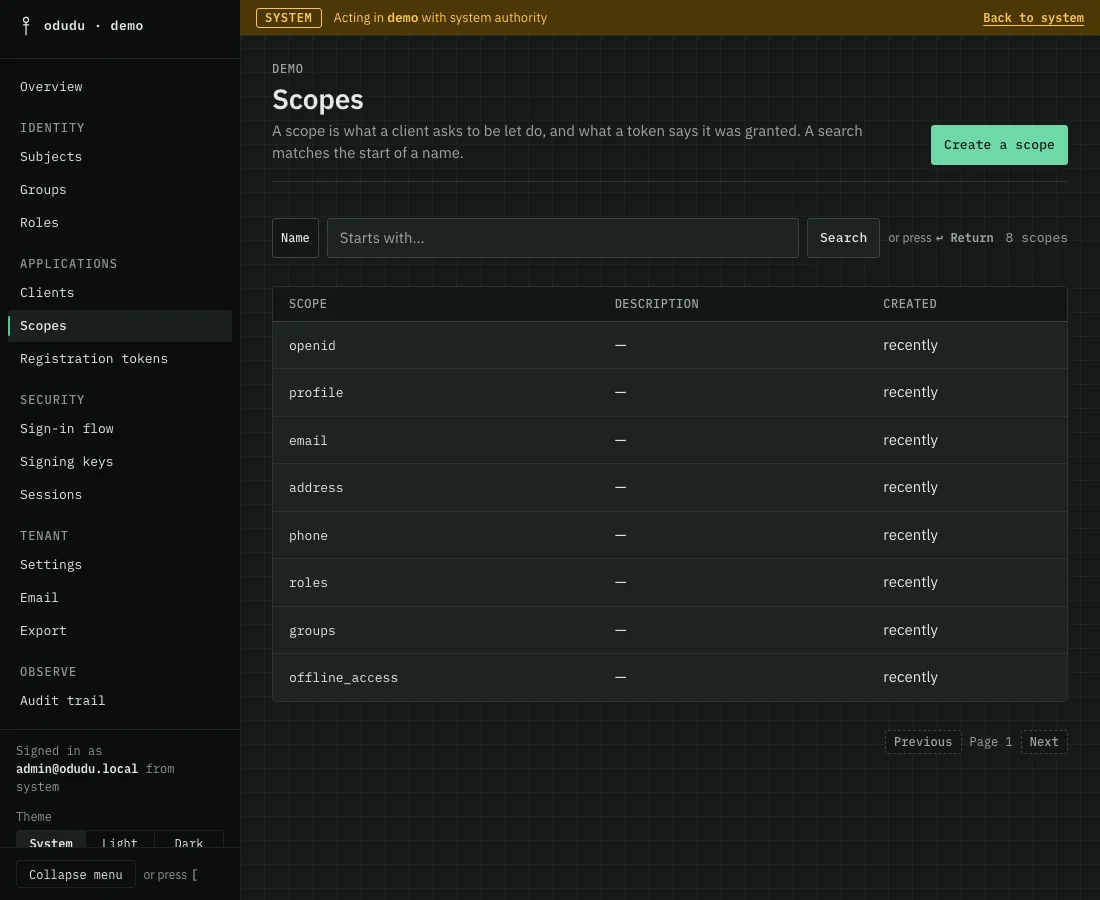
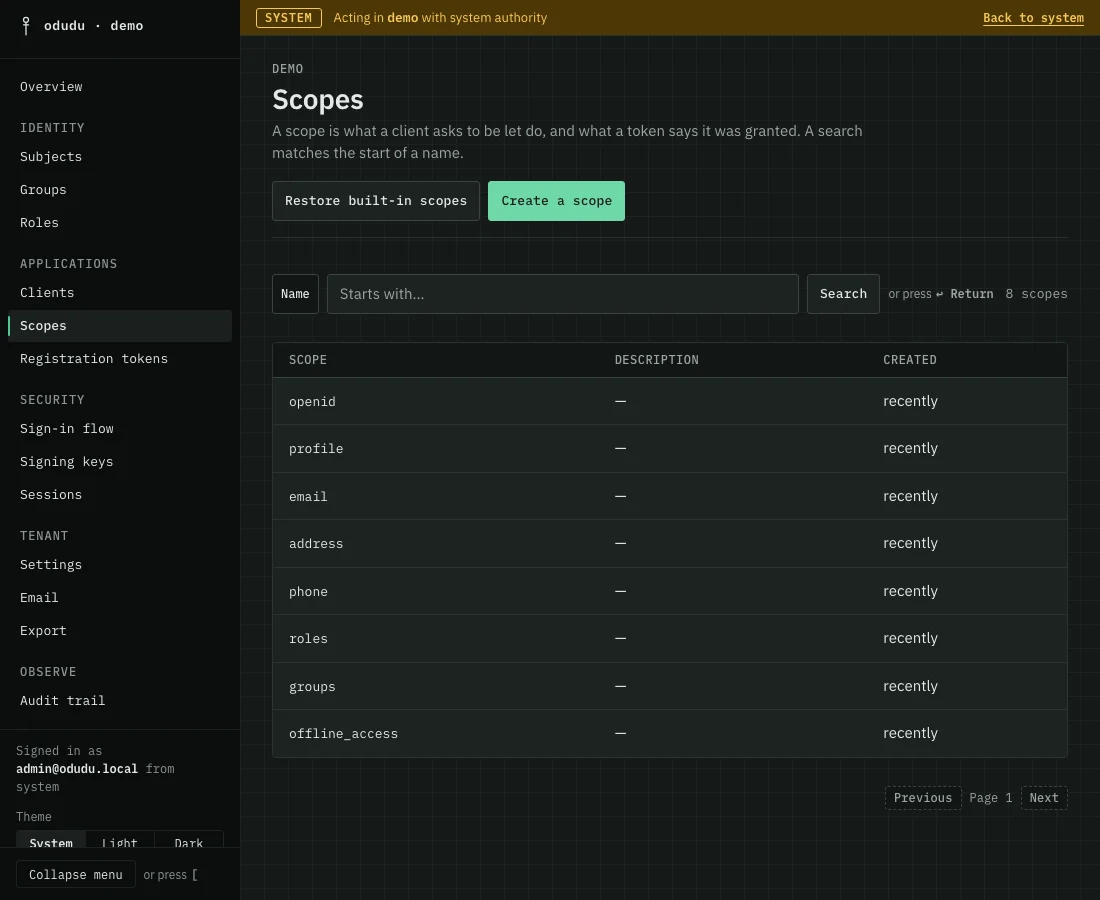
Document built-in scope delete, restore and default mappers
Scopes concept and console pages, the admin-paths transcript for impact,
builtins and restore re-run on a live stack, the openapi counts, the
scopes screenshot and its labels.

diff --git a/apps/docs/tests/support/console-labels.ts b/apps/docs/tests/support/console-labels.ts
@@ -210,6 +210,15 @@ export const DEFINED: Readonly<Record<string, Defined>> = {
   'Create a group': feature('groups/view/GroupsPage/GroupsPage.tsx', '> Create a group <'),
   'Create a role': feature('roles/view/RolesPage/RolesPage.tsx', '> Create a role <'),
   'Create a scope': feature('scopes/view/ScopesPage/ScopesPage.tsx', '> Create a scope <'),
+  'Restore built-in scopes': feature(
+    'scopes/view/ScopesPage/RestoreScopes.tsx',
+    '>Restore built-in scopes<',
+  ),
+  Restore: feature('scopes/view/ScopesPage/RestoreScopes.tsx', 'confirmLabel="Restore"'),
+  'Used because nothing is bound': feature(
+    'scopes/service/mappers.ts',
+    "DEFAULT_MAPPER_NOTE = 'Used because nothing is bound'",
+  ),
   'Create a copy': feature('roles/view/RoleRecordPage/RoleRecordPage.tsx', '> Create a copy <'),
   'Import a tenant': several(
     feature('tenants/view/TenantsPage/TenantsPage.tsx', '>Import a tenant<'),

diff --git a/packages/protocol-admin/tests/builtin-scopes.int.test.ts b/packages/protocol-admin/tests/builtin-scopes.int.test.ts
@@ -373,7 +373,15 @@ describe('POST /admin/tenants/{t}/scopes/restore-builtins', () => {
     const shipped = async (tenantId: string) =>
       withTenant(fixture.app.db, tenantId, async (tx) =>
         (await clientScopeRepository(tx).allForTenant())
-          .map(({ id: _id, tenantId: _tenant, createdAt: _created, ...rest }) => rest)
+          .map((scope) => ({
+            name: scope.name,
+            description: scope.description,
+            includeInIdToken: scope.includeInIdToken,
+            includeInAccessToken: scope.includeInAccessToken,
+            defaultClientAssignment: scope.defaultClientAssignment,
+            consentText: scope.consentText,
+            displayOrder: scope.displayOrder,
+          }))
           .sort((a, b) => a.name.localeCompare(b.name)),
       );
     expect(await shipped(t.id)).toEqual(await shipped(pristine.id));

diff --git a/packages/domain-tenant/tests/provision-defaults.int.test.ts b/packages/domain-tenant/tests/provision-defaults.int.test.ts
@@ -123,7 +123,15 @@ describe('restoring the built-in scopes', () => {
     return withTenant(app.db, tenantId, async (tx) => {
       const rows = await clientScopeRepository(tx).allForTenant();
       return rows
-        .map(({ id: _id, tenantId: _tenant, createdAt: _created, ...settings }) => settings)
+        .map((scope) => ({
+          name: scope.name,
+          description: scope.description,
+          includeInIdToken: scope.includeInIdToken,
+          includeInAccessToken: scope.includeInAccessToken,
+          defaultClientAssignment: scope.defaultClientAssignment,
+          consentText: scope.consentText,
+          displayOrder: scope.displayOrder,
+        }))
         .sort((a, b) => a.name.localeCompare(b.name));
     });
   }

diff --git a/apps/docs/scripts/console-shots/screens.ts b/apps/docs/scripts/console-shots/screens.ts
@@ -263,7 +263,7 @@ export const SCREENS: readonly Screen[] = [
   },
   {
     name: 'scopes',
-    alt: "The demo tenant's Scopes list: openid, profile, email, address, phone, roles, groups and offline_access, and a Create a scope button.",
+    alt: "The demo tenant's Scopes list: openid, profile, email, address, phone, roles, groups and offline_access, with Restore built-in scopes and Create a scope buttons.",
     caption: 'The eight scopes every tenant starts with.',
     signedIn: true,
     expect: [

diff --git a/apps/docs/content/en/reference/transcripts/admin-paths/get-scopesidimpact-get-scopesbuiltins-and-post-scopesrestore-builtins.md b/apps/docs/content/en/reference/transcripts/admin-paths/get-scopesidimpact-get-scopesbuiltins-and-post-scopesrestore-builtins.md
@@ -1,0 +1,181 @@
+---
+title: 'GET /scopes/:id/impact, GET /scopes/builtins and POST…'
+description: 'All three require manage-tenant. They support deleting a built-in scope: what it takes, which built-ins are missing, and how to restore them…'
+---
+
+## `GET /scopes/:id/impact`, `GET /scopes/builtins` and `POST /scopes/restore-builtins`
+
+All three require `manage-tenant`. They are what deleting a built-in scope needs
+around it: what the delete would take, which built-ins a tenant is missing, and
+the way to create a missing one again. A **built-in** scope is one every tenant
+is given when it is created: `openid`, `profile`, `email`, `address`, `phone`,
+`roles`, `groups` and `offline_access`. `DELETE /scopes/:id` deletes any of them
+but `openid`, and only when its `confirm` query parameter names the scope again,
+as `DELETE /admin/tenants/{tenant}` does for a tenant, so a script cannot take
+one by accident. An ordinary scope needs no `confirm`, and one sent with it is
+ignored.
+
+Every block below ran on a stack built from this branch and driven only as far
+as this page needs: `odudu seed admin`, `$ADMIN_TOKEN` got as in [Getting the
+token](./getting-the-token.md), then the tenant `demo`, a public client
+`portal`, and the role `auditor` mapped to the `roles` scope with `odudu seed`.
+The stack published port `3192`.
+
+### What a delete would take
+
+`GET /scopes/:id/impact` says whether the scope is built in and how many clients
+carry it and roles map it, the two things its deletion takes with it. Each count
+stops at a ceiling and says `capped`, so the answer is two bounded index reads
+however large the tenant is. `roles` is carried by `portal` and by the tenant's
+own admin client, and `auditor` is mapped to it:
+
+```bash
+curl -sS -H "Authorization: Bearer $ADMIN_TOKEN" http://localhost:3192/admin/tenants/demo/scopes/01a163f6-3841-7c44-8665-e0d89bc86380/impact; echo
+```
+
+```
+{"builtin":true,"client_assignments":{"count":2,"capped":false},"role_mappings":{"count":1,"capped":false}}
+```
+
+### Deleting a built-in scope asks for its name
+
+Without `confirm` the delete is refused with `422` and the type
+`builtin-scope-confirmation`; `detail` names the scope, what would go with it and
+what to send. Nothing is deleted, and the refusal is audited. A `confirm` that is
+not the scope's own name is refused the same way:
+
+```bash
+curl -sS -D - -X DELETE -H "Authorization: Bearer $ADMIN_TOKEN" http://localhost:3192/admin/tenants/demo/scopes/01a163f6-3841-7c44-8665-e0d89bc86380
+```
+
+```
+HTTP/1.1 422 Unprocessable Entity
+x-request-id: 01a163f6-3df4-75db-b8a5-674c38bdece3
+cache-control: no-store
+content-type: application/problem+json; charset=utf-8
+content-length: 313
+Date: Thu, 22 Oct 2026 14:14:04 GMT
+Connection: keep-alive
+Keep-Alive: timeout=72
+
+{"type":"about:blank#builtin-scope-confirmation","title":"Unprocessable Content","status":422,"detail":"roles is a built-in scope. Deleting it removes it from 2 clients and unmaps 1 role, and cannot be undone. Repeat the request with confirm=roles to delete it.","instance":"01a163f6-3df4-75db-b8a5-674c38bdece3"}
+```
+
+```bash
+curl -sS -X DELETE -H "Authorization: Bearer $ADMIN_TOKEN" "http://localhost:3192/admin/tenants/demo/scopes/01a163f6-3841-7c44-8665-e0d89bc86380?confirm=role"; echo
+```
+
+```
+{"type":"about:blank#builtin-scope-confirmation","title":"Unprocessable Content","status":422,"detail":"roles is a built-in scope. Deleting it removes it from 2 clients and unmaps 1 role, and cannot be undone. Repeat the request with confirm=roles to delete it.","instance":"01a163f6-3e15-7488-8e9a-5ba79eb450ab"}
+```
+
+`openid` stays refused with `409` whatever `confirm` says, since taking it off
+every client would lock every administrator of the tenant out:
+
+```bash
+curl -sS -X DELETE -H "Authorization: Bearer $ADMIN_TOKEN" "http://localhost:3192/admin/tenants/demo/scopes/01a163f6-3833-718e-8f5e-7f326dd666c0?confirm=openid"; echo
+```
+
+```
+{"type":"about:blank","title":"Conflict","status":409,"detail":"openid is deleted along with every client’s assignment of it, this tenant’s built-in admin client’s included, and could lock out every administrator of this tenant","instance":"01a163f6-3e34-7b93-9a52-b13d2b4b8785"}
+```
+
+Naming the scope deletes it, with the assignments and role mappings that
+referred to it:
+
+```bash
+curl -sS -D - -X DELETE -H "Authorization: Bearer $ADMIN_TOKEN" "http://localhost:3192/admin/tenants/demo/scopes/01a163f6-3841-7c44-8665-e0d89bc86380?confirm=roles"
+```
+
+```
+HTTP/1.1 204 No Content
+x-request-id: 01a163f6-3e4e-7736-95c7-de6acff5ad27
+cache-control: no-store
+Date: Thu, 22 Oct 2026 14:14:04 GMT
+Connection: keep-alive
+Keep-Alive: timeout=72
+
+```
+
+### Which are missing, and getting them back
+
+`GET /scopes/builtins` lists every built-in in the order a new tenant is given
+them, with whether this tenant has it; narrowed with `jq` to the missing ones:
+
+```bash
+curl -sS -H "Authorization: Bearer $ADMIN_TOKEN" http://localhost:3192/admin/tenants/demo/scopes/builtins | jq -c ".items[] | select(.present | not)"
+```
+
+```
+{"name":"roles","present":false}
+```
+
+`POST /scopes/restore-builtins` creates each missing built-in with the settings
+a new tenant is given and answers the names it created. A scope that exists is
+neither read nor changed, edited or not, so a second call creates none. It takes
+no body:
+
+```bash
+curl -sS -X POST -H "Authorization: Bearer $ADMIN_TOKEN" http://localhost:3192/admin/tenants/demo/scopes/restore-builtins; echo
+curl -sS -X POST -H "Authorization: Bearer $ADMIN_TOKEN" http://localhost:3192/admin/tenants/demo/scopes/restore-builtins; echo
+```
+
+```
+{"created":["roles"]}
+{"created":[]}
+```
+
+The restored scope has its shipped settings, marked `default` for clients made
+from now on, but not what the deletion took: no client carries it and no role is
+mapped to it, so each is assigned and mapped again. It is refused with `409`,
+creating nothing, when the missing scopes would pass the tenant's limit of 1,000
+scopes or of 200 scopes marked for every new client.
+
+```bash
+curl -sS -H "Authorization: Bearer $ADMIN_TOKEN" http://localhost:3192/admin/tenants/demo/scopes/01a163f6-3e95-77a2-8c20-0621710b44f2; echo
+curl -sS -H "Authorization: Bearer $ADMIN_TOKEN" http://localhost:3192/admin/tenants/demo/scopes/01a163f6-3e95-77a2-8c20-0621710b44f2/impact; echo
+```
+
+```
+{"id":"01a163f6-3e95-77a2-8c20-0621710b44f2","name":"roles","description":null,"include_in_id_token":false,"include_in_access_token":true,"default_client_assignment":"default","consent_text":null,"display_order":0,"created_at":"2026-10-22T14:14:04.689Z"}
+{"builtin":true,"client_assignments":{"count":0,"capped":false},"role_mappings":{"count":0,"capped":false}}
+```
+
+### The trail
+
+A delete writes one `scope.delete` row, `allowed` or `refused`, whose detail
+carries `builtin` and how many client assignments and role mappings it took or
+would have taken. A restore that creates something writes one
+`scope.restore_builtins` row naming what it created, and one that creates
+nothing writes none. The two refusals and the delete of `roles` above, narrowed
+with `jq` to the counts, and the restore:
+
+```bash
+curl -sS -H "Authorization: Bearer $ADMIN_TOKEN" "http://localhost:3192/admin/tenants/demo/audit?resource_type=scope&action=scope.delete&resource_id=01a163f6-3841-7c44-8665-e0d89bc86380" | jq -c ".items[] | {outcome, builtin: .detail.builtin, clients: .detail.client_assignments, roles: .detail.role_mappings}"
+curl -sS -H "Authorization: Bearer $ADMIN_TOKEN" "http://localhost:3192/admin/tenants/demo/audit?action=scope.restore_builtins" | jq -c ".items[] | {action, outcome, detail}"
+```
+
+```
+{"outcome":"allowed","builtin":true,"clients":2,"roles":1}
+{"outcome":"refused","builtin":true,"clients":2,"roles":1}
+{"outcome":"refused","builtin":true,"clients":2,"roles":1}
+{"action":"scope.restore_builtins","outcome":"allowed","detail":{"created":["roles"]}}
+```
+
+### From the command line
+
+`odudu seed restore-scopes --tenant <name>` does the same through the same
+function, for an installation with no admin token to hand. It prints the names
+it created and is just as harmless to repeat. Here `groups` was deleted first
+with `?confirm=groups`; the command's own warnings on standard error are
+discarded:
+
+```bash
+docker compose exec -T odudu node dist/main.js seed restore-scopes --tenant demo 2>/dev/null
+docker compose exec -T odudu node dist/main.js seed restore-scopes --tenant demo 2>/dev/null
+```
+
+```
+{"command":"restore-scopes","tenant":"demo","tenantId":"01a163f6-381e-7464-8b39-7093a24cdfc9","created":["groups"]}
+{"command":"restore-scopes","tenant":"demo","tenantId":"01a163f6-381e-7464-8b39-7093a24cdfc9","created":[]}
+```

diff --git a/apps/docs/content/en/reference/transcripts/admin-paths/the-shape-of-it.md b/apps/docs/content/en/reference/transcripts/admin-paths/the-shape-of-it.md
@@ -185,9 +185,12 @@ and why, where it appears.
 | `GET`    | `/admin/tenants/{tenant}/scopes`                                 | List client scopes                         |
 | `GET`    | `/admin/tenants/{tenant}/scopes/count`                           | Count client scopes                        |
 | `POST`   | `/admin/tenants/{tenant}/scopes`                                 | Create a client scope                      |
+| `GET`    | `/admin/tenants/{tenant}/scopes/builtins`                        | List the built-in scopes a tenant has      |
+| `POST`   | `/admin/tenants/{tenant}/scopes/restore-builtins`                | Create the missing built-in scopes         |
 | `GET`    | `/admin/tenants/{tenant}/scopes/:id`                             | Read a client scope                        |
 | `PATCH`  | `/admin/tenants/{tenant}/scopes/:id`                             | Amend a client scope                       |
 | `DELETE` | `/admin/tenants/{tenant}/scopes/:id`                             | Delete a client scope                      |
+| `GET`    | `/admin/tenants/{tenant}/scopes/:id/impact`                      | Count what deleting a scope would take     |
 | `GET`    | `/admin/tenants/{tenant}/scopes/:id/roles`                       | Read a scope's roles                       |
 | `PUT`    | `/admin/tenants/{tenant}/scopes/:id/roles`                       | Replace a scope's roles                    |
 | `GET`    | `/admin/tenants/{tenant}/scopes/:id/clients`                     | List the clients a scope is assigned to    |

diff --git a/apps/docs/content/en/reference/transcripts/admin-paths/get-adminopenapijson.md b/apps/docs/content/en/reference/transcripts/admin-paths/get-adminopenapijson.md
@@ -12,24 +12,24 @@ into one — and is served without authentication, since a client that cannot re
 it cannot generate against it.
 
 ```bash
-curl -sS -D - -o openapi.json http://localhost:3187/admin/openapi.json
+curl -sS -D - -o openapi.json http://localhost:3192/admin/openapi.json
 jq '.paths | length' openapi.json
 ```
 
 ```
 HTTP/1.1 200 OK
-x-request-id: 01a140be-1aa4-7732-9373-b578e205487c
+x-request-id: 01a163f6-cbed-7c2e-890d-c0cbc69af402
 access-control-allow-origin: *
 content-type: application/json; charset=utf-8
-content-length: 326972
-Date: Thu, 15 Oct 2026 18:06:02 GMT
+content-length: 432083
+Date: Thu, 22 Oct 2026 14:14:40 GMT
 Connection: keep-alive
 Keep-Alive: timeout=72
 
-75
+78
 ```
 
-319 KB and 75 paths, which is the whole route table. It is the one admin
+422 KB and 78 paths, which is the whole route table. It is the one admin
 response readable from any origin, so a viewer served from another port can load
 it — the local stack's optional Swagger UI does exactly that (see "Browsing the
 admin API" in the README). No admin route carries that header, so a page on
@@ -46,7 +46,7 @@ openapi.json` and the substring at `securitySchemes`:
 ```
 
 `security` is declared once at the top level, so every path inherits it
-rather than repeating it. `/admin/openapi.json` is not among those 75
+rather than repeating it. `/admin/openapi.json` is not among those 78
 paths: the document does not describe itself, which is why serving it
 unauthenticated does not contradict the blanket `security` above.
 

diff --git a/apps/docs/content/en/reference/transcripts/admin-paths/get-scopes-post-scopes-get-scopesid-patch-scopesid-and-delete-scopesid.md b/apps/docs/content/en/reference/transcripts/admin-paths/get-scopes-post-scopes-get-scopesid-patch-scopesid-and-delete-scopesid.md
@@ -121,7 +121,13 @@ the built-in admin client's included, which
 alone. Every other scope stays deletable whatever it is assigned to,
 unless the roles it maps reach an admin capability the caller does not hold
 ([a removal is judged by what it removes](#a-removal-is-judged-by-what-it-removes))
-— a tenant-wide decision, not a per-client one.
+— a tenant-wide decision, not a per-client one. A **built-in** scope, one every
+tenant is given, is deleted only when `?confirm=` names it again, so a script
+cannot take one by accident, and an ordinary scope needs no confirmation; the
+[built-in scopes page](./get-scopesidimpact-get-scopesbuiltins-and-post-scopesrestore-builtins.md)
+shows the refusal, the confirmation and how to get one back. Every delete's
+audit row carries `builtin` and how many client assignments and role mappings
+it took.
 
 ```bash
 curl -sS -X POST \

diff --git a/apps/docs/content/en/reference/transcripts/admin-paths/index.md b/apps/docs/content/en/reference/transcripts/admin-paths/index.md
@@ -72,6 +72,7 @@ How they were captured is in [How the transcripts are captured and checked](../.
 - [GET /scopes/:id/clients](./get-scopesidclients.md)
 - [PUT /scopes/:id/clients/:clientId](./put-scopesidclientsclientid.md)
 - [DELETE /scopes/:id/clients/:clientId](./delete-scopesidclientsclientid.md)
+- [GET /scopes/:id/impact, GET /scopes/builtins and POST…](./get-scopesidimpact-get-scopesbuiltins-and-post-scopesrestore-builtins.md)
 - [GET /scopes/:id/mappers and PUT /scopes/:id/mappers](./get-scopesidmappers-and-put-scopesidmappers.md)
 - [GET /keys, POST /keys, POST /keys/:id/promote and POST…](./get-keys-post-keys-post-keysidpromote-and-post-keysidretire.md)
 - [DELETE /keys/:id](./delete-keysid.md)
